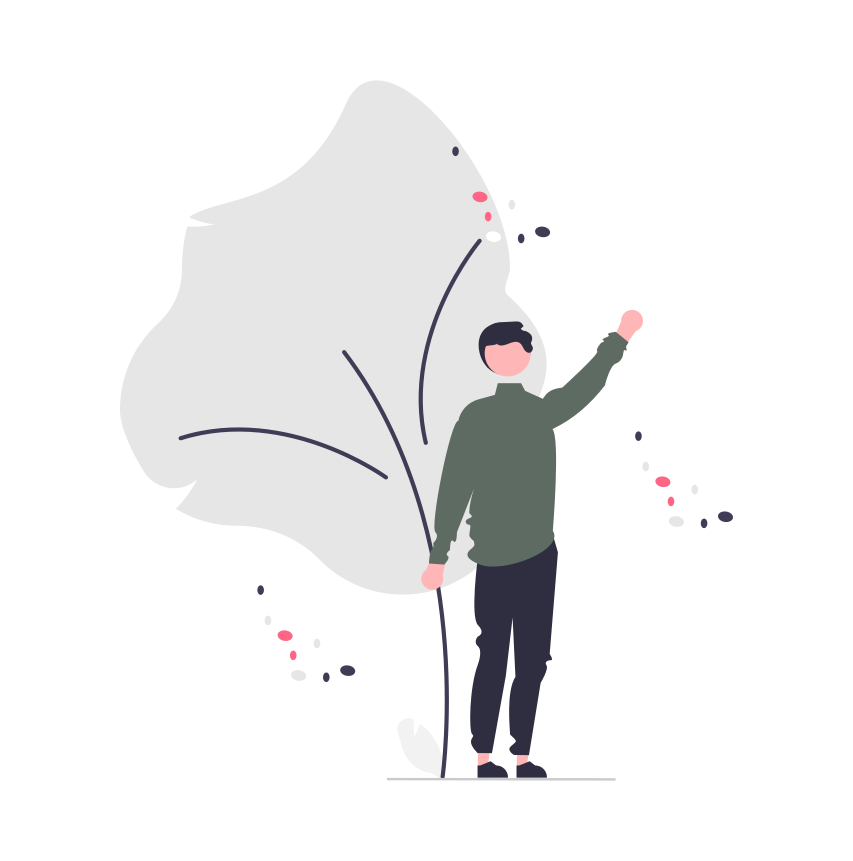
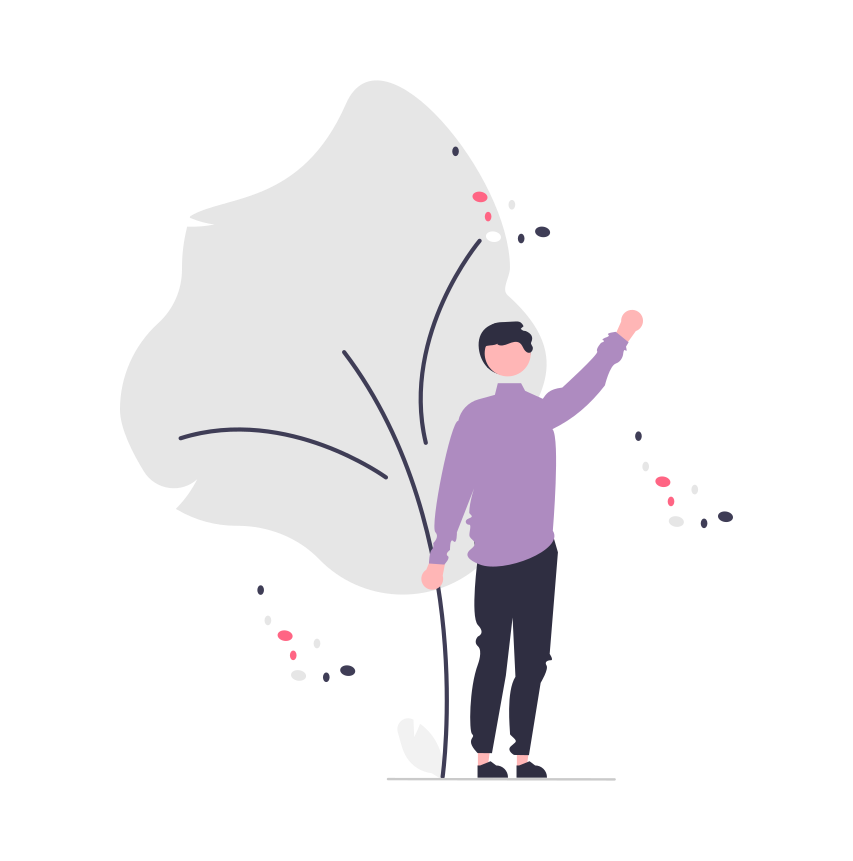
change color theme for auth page

Changed region(s): [[0.4877, 0.3624, 0.7315, 0.6643]]

diff --git a/src/app/(auth)/register/page.tsx b/src/app/(auth)/register/page.tsx
@@ -71,8 +71,10 @@ const RegisterPage = () => {
 
     return (
         <div className="p-2">
-            <div className="text-center font-bold text-4xl">Register</div>
-            <p className="text-center mt-3">
+            <div className="text-center font-bold text-4xl text-dark-purple">
+                Register
+            </div>
+            <p className="text-center mt-3 text-dark-purple">
                 Hey, Enter your details to get sign up your account
             </p>
             <div className="flex justify-center gap-8 my-8">
@@ -80,7 +82,7 @@ const RegisterPage = () => {
                     <div
                         className={`cursor-pointer outline-dotted p-4 rounded-md relative ${
                             userData.role === UserRole.Volunteer &&
-                            "border-2 border-solid border-leaf outline-none"
+                            "border-2 border-solid border-dark-purple outline-none"
                         }`}
                     >
                         <Input
@@ -97,13 +99,15 @@ const RegisterPage = () => {
                             className="object-cover h-[80px] mx-auto"
                         />
                     </div>
-                    <p className="text-center mt-2">I'm a volunteer</p>
+                    <p className="text-center mt-2 text-dark-purple">
+                        I'm a volunteer
+                    </p>
                 </div>
                 <div className="max-w-[150px] w-full">
                     <div
                         className={`cursor-pointer outline-dotted p-4 rounded-md relative ${
                             userData.role === UserRole.NeedAssistance &&
-                            "border-2 border-solid border-leaf outline-none"
+                            "border-2 border-solid border-dark-purple outline-none"
                         }`}
                     >
                         <input
@@ -119,7 +123,9 @@ const RegisterPage = () => {
                             className="object-cover h-[80px] mx-auto"
                         ></img>
                     </div>
-                    <p className="text-center mt-2">I need assistance</p>
+                    <p className="text-center mt-2 text-dark-purple">
+                        I need assistance
+                    </p>
                 </div>
             </div>
             <div className="flex flex-col mt-[50px] gap-4">
@@ -129,7 +135,7 @@ const RegisterPage = () => {
                     placeholder="Enter Email"
                     onChange={handleOnChange}
                     error={false}
-                    inputClassName="border-2 rounded-md py-2 px-3 w-full placeholder:text-[#606060] focus:outline-none"
+                    inputClassName="bg-pink-purple rounded-md py-2 px-3 w-full authInput focus:outline-none text-dark-purple"
                 />
                 <Input
                     type="password"
@@ -137,28 +143,31 @@ const RegisterPage = () => {
                     placeholder="Enter Your Password"
                     onChange={handleOnChange}
                     error={false}
-                    inputClassName="border-2 rounded-md py-2 px-3  w-full placeholder:text-[#606060] focus:outline-none"
+                    inputClassName="bg-pink-purple rounded-md py-2 px-3  w-full authInput focus:outline-none text-dark-purple"
                 />
                 <SelectOption
                     options={languagesOptions}
                     name="languageId"
                     placeholder="Select Language"
-                    className="placeholder:text-[#606060] focus:outline-none"
+                    className="focus:outline-none"
                     handleSelectChange={handleSelectChange}
                 />
             </div>
             <button
-                className="w-full bg-leaf py-3 font-bold rounded-md mt-[40px] text-white"
+                className="w-full bg-dark-purple py-3 font-bold rounded-md mt-[40px] text-pink-purple"
                 onClick={handleRegister}
             >
                 Register
             </button>
-            <p className="text-center mt-4">
+            <p className="text-center mt-4 text-dark-purple">
                 Already have account?{" "}
-                <Link href="/login" className="group transition duration-300">
-                    <span className="font-bold relative text-sky-600">
+                <Link
+                    href="/login"
+                    className="group transition duration-300 text-lavender"
+                >
+                    <span className="font-bold relative ">
                         Login Now
-                        <span className="absolute inset-x-0 bottom-0 h-0.5 bg-sky-600 transform origin-bottom scale-x-0 group-hover:scale-x-100 transition-transform duration-500"></span>
+                        <span className="absolute inset-x-0 bottom-0 h-0.5 bg-lavender transform origin-bottom scale-x-0 group-hover:scale-x-100 transition-transform duration-500"></span>
                     </span>
                 </Link>
             </p>

diff --git a/src/app/(auth)/login/page.tsx b/src/app/(auth)/login/page.tsx
@@ -4,7 +4,7 @@ import Link from "next/link";
 import { ChangeEvent, useContext, useState } from "react";
 import { apiClient } from "@/utils/axios";
 import ErrorHandler from "@/utils/errorHandling";
-import { AuthContext } from "@/context/AuthContext";
+import { AuthContext } from "@/context/authContext";
 
 interface userData {
     email: string;
@@ -40,8 +40,10 @@ export default function LoginPage() {
     return (
         <>
             <div className="p-2">
-                <div className="text-center font-bold text-4xl">Login</div>
-                <p className="text-center mt-3">
+                <div className="text-center font-bold text-4xl text-dark-purple">
+                    Login
+                </div>
+                <p className="text-center mt-3 text-dark-purple">
                     Hey, Enter your details to get sign in to your account
                 </p>
                 <div className="flex flex-col mt-[50px] gap-4">
@@ -51,7 +53,7 @@ export default function LoginPage() {
                         placeholder="Enter Email"
                         onChange={handleOnChange}
                         error={false}
-                        inputClassName="border-2 rounded-md py-2 px-3 w-full placeholder:text-[#606060] focus:outline-none"
+                        inputClassName="rounded-lg py-2 px-3 w-full placeholder:text-[#606060] focus:outline-none bg-pink-purple authInput"
                     />
                     <Input
                         type="password"
@@ -59,28 +61,29 @@ export default function LoginPage() {
                         placeholder="Enter Your Password"
                         onChange={handleOnChange}
                         error={false}
-                        inputClassName="border-2 rounded-md py-2 px-3  w-full placeholder:text-[#606060] focus:outline-none"
+                        inputClassName="rounded-lg py-2 px-3  w-full placeholder:text-[#606060] focus:outline-none bg-pink-purple authInput"
                     />
                 </div>
-                <p className="my-[25px]">Having trouble signing in?</p>
+                <p className="my-[25px] text-dark-purple">
+                    Having trouble signing in?
+                </p>
                 <button
                     type="submit"
-                    className="w-full bg-leaf py-3 font-bold rounded-md text-white"
+                    className="w-full bg-dark-purple py-3 font-bold rounded-md text-pink-purple"
                     onClick={handleLogin}
                 >
                     Sign In
                 </button>
-                <p className="my-[40px] text-center">-- Or Sign in with --</p>
                 <div></div>
-                <p className="text-center">
+                <p className="text-center mt-5 text-dark-purple">
                     Don't have an account?{" "}
                     <Link
                         href="/register"
                         className="group transition duration-300"
                     >
-                        <span className="font-bold relative text-sky-600">
+                        <span className="font-bold relative text-lavender">
                             Register Now
-                            <span className="absolute inset-x-0 bottom-0 h-0.5 bg-sky-600 transform origin-bottom scale-x-0 group-hover:scale-x-100 transition-transform duration-500"></span>
+                            <span className="absolute inset-x-0 bottom-0 h-0.5 bg-lavender transform origin-bottom scale-x-0 group-hover:scale-x-100 transition-transform duration-500"></span>
                         </span>
                     </Link>
                 </p>

diff --git a/src/app/(auth)/layout.tsx b/src/app/(auth)/layout.tsx
@@ -6,7 +6,7 @@ export default function AuthLayout({
     return (
         <>
             <div className="h-screen overflow-hidden">
-                <div className="flex min-h-screen flex-col items-center justify-between p-24 bg-dark-green h-screen">
+                <div className="flex min-h-screen flex-col items-center justify-between p-24 bg-dark-purple h-screen">
                     <div className="eye left-[35%]">
                         <div className="shut">
                             <span></span>
@@ -22,7 +22,7 @@ export default function AuthLayout({
                 </div>
                 <div
                     className={
-                        "w-full min-h-screen flex justify-center items-center bg-peach overlay relative"
+                        "w-full min-h-screen flex flex-col items-center justify-center bg-pale-purple overlay relative"
                     }
                     style={{ height: "100vh" }}
                 >
@@ -35,15 +35,12 @@ export default function AuthLayout({
                             <path d="M156.4,339.5c31.8-2.5,59.4-26.8,80.2-48.5c28.3-29.5,40.5-47,56.1-85.1c14-34.3,20.7-75.6,2.3-111  c-18.1-34.8-55.7-58-90.4-72.3c-11.7-4.8-24.1-8.8-36.8-11.5l-0.9-0.9l-0.6,0.6c-27.7-5.8-56.6-6-82.4,3c-38.8,13.6-64,48.8-66.8,90.3c-3,43.9,17.8,88.3,33.7,128.8c5.3,13.5,10.4,27.1,14.9,40.9C77.5,309.9,111,343,156.4,339.5z" />
                         </svg>
                     </div>
-                    <div className="absolute top-5">
-                        <div className="w-[20px] h-[20px] bg-white mx-auto mb-3 rounded-tl-[75%] rounded-br-[75%] rotate-[45deg] relative">
-                            <div className="bg-black absolute w-[10px] h-[10px] rounded-full translate-y-[50%] translate-x-[50%]"></div>
-                        </div>
-                        <div className="font-bold text-5xl text-dark-green">
+                    <div className="absolute top-[50px]">
+                        <div className="font-bold text-5xl text-dark-purple">
                             ShareMySight
                         </div>
                     </div>
-                    <div className=" bg-white w-2/3 m-h-4/5 rounded-[30px] shadow-md p-8 flex mt-[100px]">
+                    <div className=" bg-white w-2/3 m-h-4/5 rounded-[30px] shadow-md p-8 flex mt-[50px]">
                         <p className="border-r-2 flex justify-center items-center">
                             <img
                                 src="welcome.png"

diff --git a/src/app/globals.css b/src/app/globals.css
@@ -17,7 +17,7 @@
 }
 
 .eye {
-    background: white;
+    background: #303866;
     height: 200px;
     width: 200px;
     position: absolute;
@@ -27,16 +27,18 @@
     overflow: hidden;
     animation: eye-open 3s forwards;
     animation-delay: 1s;
+    border: 10px solid #dee1fa;
 }
 
 .ball {
-    background: #213e3a;
+    background: #303866;
     border-radius: 50%;
     position: absolute;
     top: 50%;
     left: 50%;
     animation: eye-open-ball 3s forwards;
     animation-delay: 1s;
+    border: 10px solid #dee1fa;
 }
 .shut {
     width: 300px;
@@ -52,7 +54,7 @@
     display: block;
     width: 100%;
     height: 100%;
-    background: #213e3a;
+    background: #303866;
     border-radius: 0 0 60% 60%;
     animation: eye-open-lid 3s forwards;
     animation-delay: 1s;
@@ -67,7 +69,7 @@
     position: absolute;
     top: 0;
     left: 0;
-    fill: #bfd0b1;
+    fill: #303866;
     width: 50vmax;
     z-index: -1;
     animation: move 10s ease-in-out infinite;
@@ -174,4 +176,9 @@ div#videos > video {
     height: 100%;
     display: block;
     margin: 1em;
+}
+
+input.authInput::placeholder,
+select.authInput::placeholder {
+    color: #ae8bc0;
 }

diff --git a/src/app/layout.tsx b/src/app/layout.tsx
@@ -1,9 +1,8 @@
 import { Inter } from "next/font/google";
 import "./globals.css";
-import { AuthProvider } from "@/context/AuthContext";
+import { AuthProvider } from "@/context/authContext";
 import { CookiesProvider } from "next-client-cookies/server";
 import { ToastContainer } from "react-toastify";
-import { SocketProvider } from "@/context/socketContext";
 import "react-toastify/dist/ReactToastify.css";
 
 const inter = Inter({ subsets: ["latin"] });
@@ -17,12 +16,10 @@ export default function RootLayout({
         <html lang="en">
             <CookiesProvider>
                 <AuthProvider>
-                    <SocketProvider>
-                        <body className={inter.className}>
-                            {children}
-                            <ToastContainer />
-                        </body>
-                    </SocketProvider>
+                    <body className={inter.className}>
+                        {children}
+                        <ToastContainer />
+                    </body>
                 </AuthProvider>
             </CookiesProvider>
         </html>

diff --git a/src/components/selectOption.tsx b/src/components/selectOption.tsx
@@ -53,13 +53,14 @@ const SelectOption: FunctionComponent<Props> = ({
                         ...baseStyles,
                         borderWidth: "2px",
                         borderColor: "#E4E7EB",
-                        color: "#606060",
+                        color: "#ae8bc0",
+                        background: "#F0E4F9",
                         boxShadow: "0 !important",
                         "&:hover": {},
                     }),
                     placeholder: (baseStyles) => ({
                         ...baseStyles,
-                        color: "#606060",
+                        color: "#ae8bc0",
                     }),
                 }}
             />

diff --git a/tailwind.config.ts b/tailwind.config.ts
@@ -15,6 +15,10 @@ const config: Config = {
             },
             colors: {
                 "dark-green": "#213E3A",
+                "dark-purple": "#303866",
+                "pale-purple": "#DEE1FA",
+                "pink-purple": "#F0E4F9",
+                lavender: "#AE8BC0",
                 peach: "#F3EDDE",
                 sage: "#5E6B62",
                 leaf: "#054F3E",
